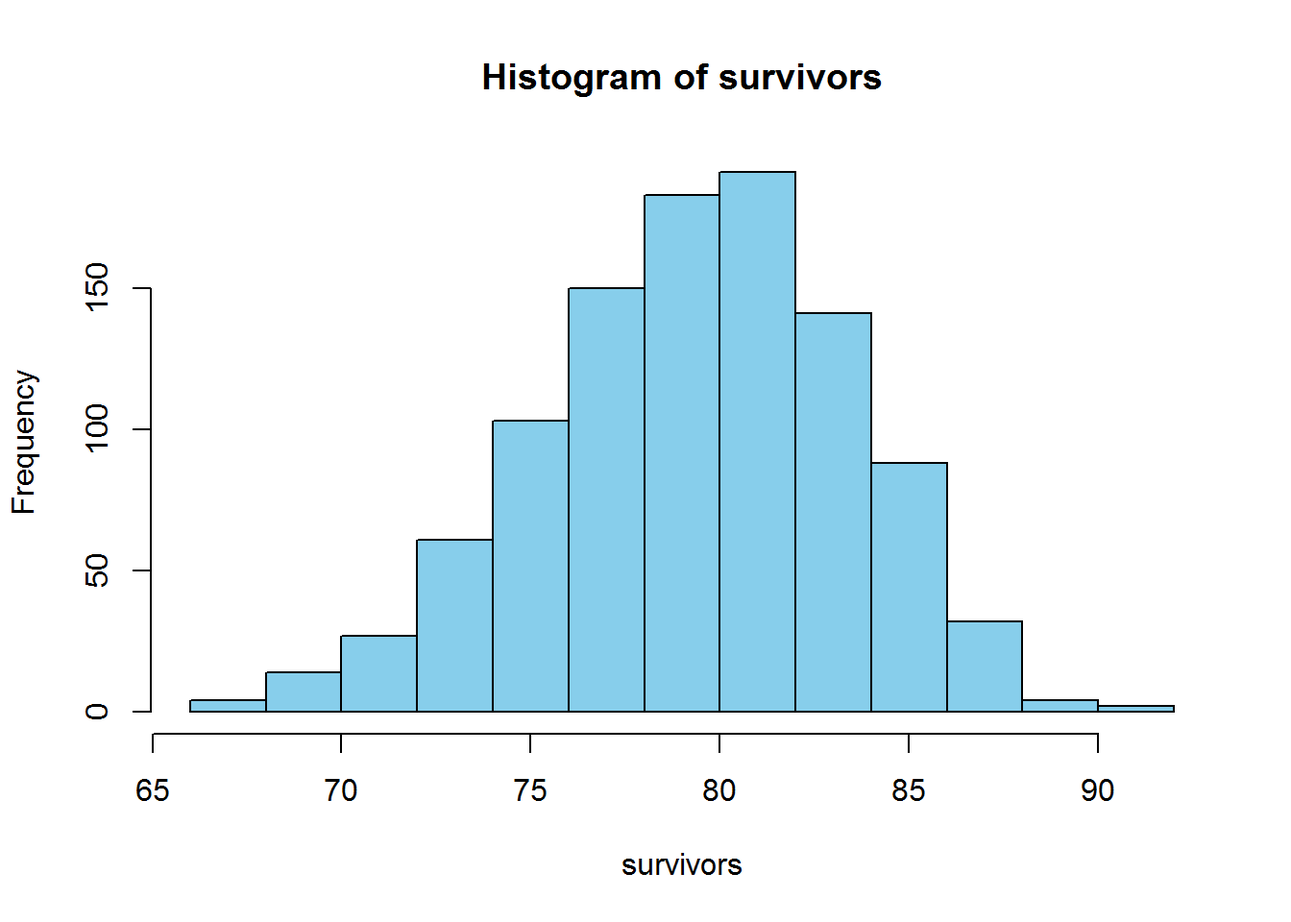
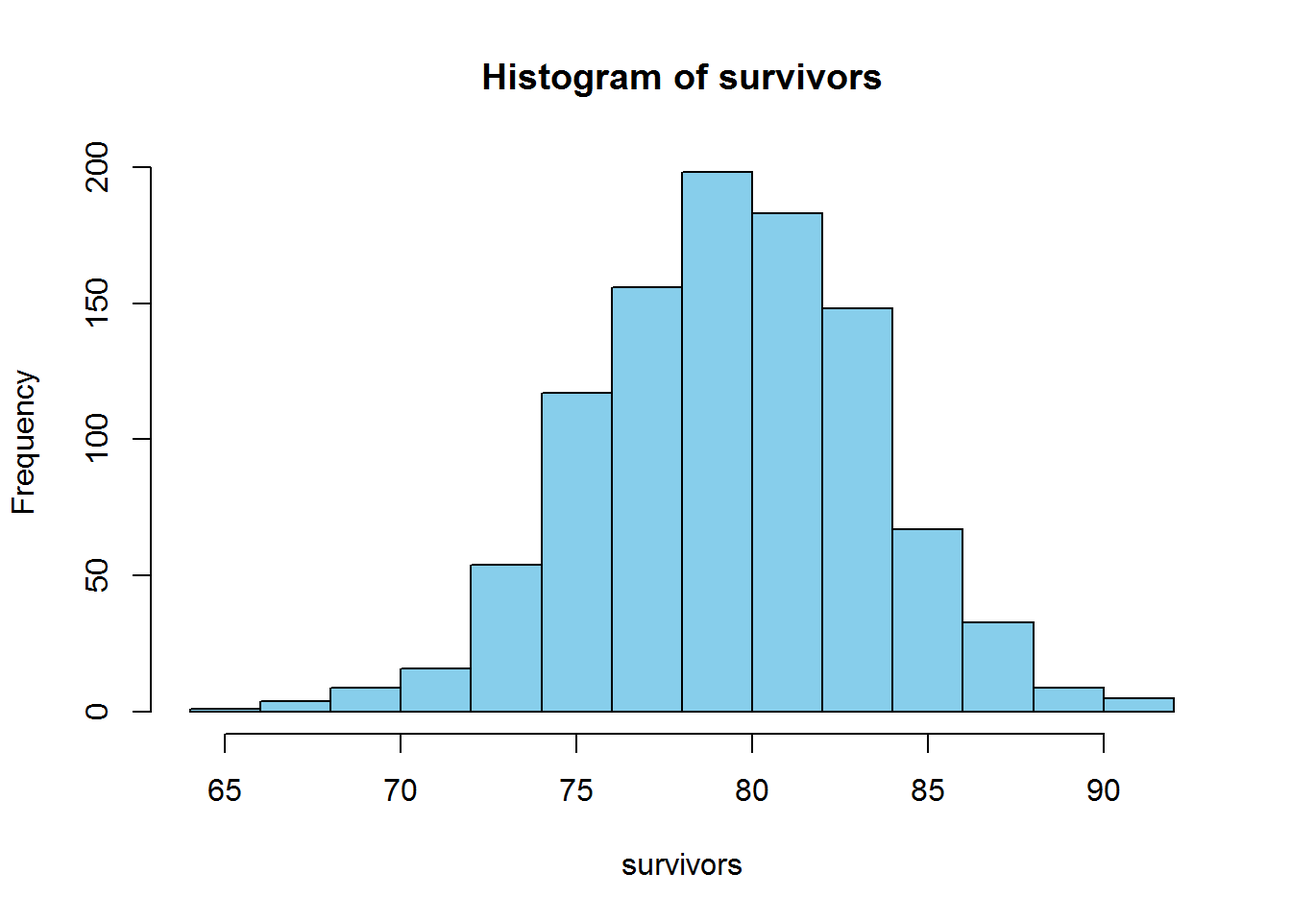
edit ch4

diff --git a/docs/ch4.html b/docs/ch4.html
@@ -312,7 +312,7 @@ code > span.in { color: #60a0b0; font-weight: bold; font-style: italic; } /* Inf
 <p>In Section <a href="ch3.html#dists">3.3</a>, you learned about using probability distributions in R. One of the uses was the <code>r-</code> family of distribution functions. These functions create random numbers following a random process specified by a probability distribution.</p>
 <p>Consider animal survival as an example. At the end of each year, each individual alive at the start can either live or die. There are two outcomes here, and suppose each animal has an 80% chance of surviving. The number of individuals that survive is the result of a <strong>binomial random process</strong> in which there were <span class="math inline">\(n\)</span> individuals alive at the start of this year and <span class="math inline">\(p\)</span> is the probability that any one individual survives to the next year. You can execute one binomial random process where <span class="math inline">\(p = 0.8\)</span> and <span class="math inline">\(n = 100\)</span> like this:</p>
 <div class="sourceCode"><pre class="sourceCode r"><code class="sourceCode r"><span class="kw">rbinom</span>(<span class="dt">n =</span> <span class="dv">1</span>, <span class="dt">size =</span> <span class="dv">100</span>, <span class="dt">prob =</span> <span class="fl">0.8</span>)</code></pre></div>
-<pre><code>## [1] 77</code></pre>
+<pre><code>## [1] 78</code></pre>
 <p>The result you get will almost certainly be different from the one printed here. That is the random component.</p>
 <p>You can execute many such binomial processes by changing the <code>n</code> argument. Plot the distribution of expected surviving individuals:</p>
 <div class="sourceCode"><pre class="sourceCode r"><code class="sourceCode r">survivors =<span class="st"> </span><span class="kw">rbinom</span>(<span class="dv">1000</span>, <span class="dv">100</span>, <span class="fl">0.8</span>)
@@ -327,14 +327,14 @@ code > span.in { color: #60a0b0; font-weight: bold; font-style: italic; } /* Inf
 <h3><span class="header-section-number">4.2.2</span> Resampling</h3>
 <p>Using random deviates works great for creating new random numbers, but what if you already have a set of numbers that you wish to introduce randomness to? For this, you can use <strong>resampling techniques</strong>. In R, the <code>sample</code> function is used to sample <code>size</code> elements from the vector <code>x</code>:</p>
 <div class="sourceCode"><pre class="sourceCode r"><code class="sourceCode r"><span class="kw">sample</span>(<span class="dt">x =</span> <span class="dv">1</span><span class="op">:</span><span class="dv">10</span>, <span class="dt">size =</span> <span class="dv">5</span>)</code></pre></div>
-<pre><code>## [1] 1 2 4 8 3</code></pre>
+<pre><code>## [1]  7  4  6 10  5</code></pre>
 <p>You can sample with replacement (where it is possible to sample the same element two or more times):</p>
 <div class="sourceCode"><pre class="sourceCode r"><code class="sourceCode r"><span class="kw">sample</span>(<span class="dt">x =</span> <span class="kw">c</span>(<span class="st">&quot;a&quot;</span>, <span class="st">&quot;b&quot;</span>, <span class="st">&quot;c&quot;</span>), <span class="dt">size =</span> <span class="dv">10</span>, <span class="dt">replace =</span> T)</code></pre></div>
-<pre><code>##  [1] &quot;c&quot; &quot;b&quot; &quot;b&quot; &quot;a&quot; &quot;b&quot; &quot;b&quot; &quot;c&quot; &quot;b&quot; &quot;a&quot; &quot;a&quot;</code></pre>
+<pre><code>##  [1] &quot;c&quot; &quot;b&quot; &quot;b&quot; &quot;c&quot; &quot;b&quot; &quot;b&quot; &quot;b&quot; &quot;b&quot; &quot;c&quot; &quot;c&quot;</code></pre>
 <p>You can set probabilities on the sampling of different elements<a href="#fn1" class="footnoteRef" id="fnref1"><sup>1</sup></a>:</p>
 <div class="sourceCode"><pre class="sourceCode r"><code class="sourceCode r"><span class="kw">sample</span>(<span class="dt">x =</span> <span class="kw">c</span>(<span class="st">&quot;live&quot;</span>, <span class="st">&quot;die&quot;</span>), <span class="dt">size =</span> <span class="dv">10</span>, <span class="dt">replace =</span> T,
        <span class="dt">prob =</span> <span class="kw">c</span>(<span class="fl">0.8</span>, <span class="fl">0.2</span>))</code></pre></div>
-<pre><code>##  [1] &quot;live&quot; &quot;live&quot; &quot;live&quot; &quot;live&quot; &quot;live&quot; &quot;die&quot;  &quot;die&quot;  &quot;live&quot; &quot;live&quot; &quot;die&quot;</code></pre>
+<pre><code>##  [1] &quot;live&quot; &quot;die&quot;  &quot;live&quot; &quot;live&quot; &quot;die&quot;  &quot;die&quot;  &quot;live&quot; &quot;live&quot; &quot;live&quot; &quot;live&quot;</code></pre>
 <p>Notice that this is the same as the binomial random process above, but with only 10 trials and the printing of the outcomes rather than the number of successes.</p>
 </div>
 </div>
@@ -601,7 +601,7 @@ normal_p =<span class="st"> </span><span class="kw">pnorm</span>(q, mu, sig)
   pval <span class="op">&lt;</span><span class="st"> </span><span class="fl">0.05</span>
 }</code></pre></div>
 <p>Next, for steps 4 and 5, set up a <strong>nested <code>for</code> loop</strong>. This will have two loops: one that loops over sample sizes for step 5 and one that loops over replicates of each sample size (step 4):</p>
-<div class="sourceCode"><pre class="sourceCode r"><code class="sourceCode r">I =<span class="st"> </span><span class="dv">1000</span>  <span class="co"># the number of replicates at each sample size</span>
+<div class="sourceCode"><pre class="sourceCode r"><code class="sourceCode r">I =<span class="st"> </span><span class="dv">10</span>  <span class="co"># the number of replicates at each sample size</span>
 
 n_try =<span class="st"> </span><span class="kw">seq</span>(<span class="dv">10</span>, <span class="dv">50</span>, <span class="dv">10</span>)  <span class="co"># the test sample sizes</span>
 N =<span class="st"> </span><span class="kw">length</span>(n_try)      <span class="co"># count them</span>
@@ -619,7 +619,7 @@ out =<span class="st"> </span><span class="kw">matrix</span>(<span class="ot">NA
      <span class="dt">xlab =</span> <span class="st">&quot;Tagged Fish per Treatment&quot;</span>,
      <span class="dt">ylab =</span> <span class="st">&quot;Probability of Finding Effect (Power)&quot;</span>)</code></pre></div>
 <p><img src="au-r-workshop_files/figure-html/unnamed-chunk-34-1.png" width="672" style="display: block; margin: auto;" /></p>
-<p>Even if you tagged 100 fish total, you would have a 48% chance of saying the effect (which truely is there!) is present under the null hypothesis testing framework.</p>
+<p>Even if you tagged 100 fish total, you would have a 50% chance of saying the effect (which truely is there!) is present under the null hypothesis testing framework.</p>
 <p>Suppose you and your colleagues aren’t relying on p-values in this case, and are purely interested in how precisely the <strong>effect size</strong> would be estimated. Adapt your function to determine how frequently it is you would be able to estimate the true mortality probability of the new method within +/- 5% based on the point estimate only (the true estimate must be between 0.2 and 0.3 for a successful study). Change your function to calculate this additional metric and re-run the analysis:</p>
 <div class="sourceCode"><pre class="sourceCode r"><code class="sourceCode r">sim_fit =<span class="st"> </span><span class="cf">function</span>(n, <span class="dt">p_old =</span> <span class="fl">0.10</span>, <span class="dt">p_new =</span> <span class="fl">0.25</span>) {
   
@@ -658,7 +658,7 @@ out =<span class="st"> </span><span class="kw">matrix</span>(<span class="ot">NA
 }
 
 <span class="co"># run the analysis</span>
-I =<span class="st"> </span><span class="dv">1000</span>  <span class="co"># the number of replicates at each sample size</span>
+I =<span class="st"> </span><span class="dv">10</span>  <span class="co"># the number of replicates at each sample size</span>
 
 n_try =<span class="st"> </span><span class="kw">seq</span>(<span class="dv">10</span>, <span class="dv">50</span>, <span class="dv">10</span>)  <span class="co"># the test sample sizes</span>
 N =<span class="st"> </span><span class="kw">length</span>(n_try)      <span class="co"># count them</span>
@@ -683,13 +683,13 @@ out_prc =<span class="st"> </span><span class="kw">matrix</span>(<span class="ot
      <span class="dt">xlab =</span> <span class="st">&quot;Tagged Fish per Treatment&quot;</span>,
      <span class="dt">ylab =</span> <span class="st">&quot;Probability of A Precise Estimate&quot;</span>)</code></pre></div>
 <p><img src="au-r-workshop_files/figure-html/unnamed-chunk-35-1.png" width="672" style="display: block; margin: auto;" /></p>
-<p>It seems that even if you tagged 50 fish per treatment, you would have a 58% chance of estimating that the mortality rate is between 0.2 and 0.3 if it was truly 0.25.</p>
+<p>It seems that even if you tagged 50 fish per treatment, you would have a 60% chance of estimating that the mortality rate is between 0.2 and 0.3 if it was truly 0.25.</p>
 <p>You and your colleagues consider these results and determine that you will need to somehow aquire more funds to tag more fish in the small-scale study in order to a high level of confidence in the results.</p>
 </div>
 <div id="harv-ex" class="section level3">
 <h3><span class="header-section-number">4.7.3</span> Harvest Policy Analysis</h3>
 <p>In this example, you will simulate population dynamics under a more realistic model than in Sections <a href="ch4.html#for-loops">4.4.2</a> and <a href="ch4.html#adv-funcs">4.5</a> for the purposes of evaluating different harvest policies.</p>
-<p>Suppose you are a fisheries research biologist, and a large commercial fishery for pink salmon (<em>Oncorhynchus gorbuscha</em>) takes place in your district. For the past 10 years, it has been fished with an exploitation rate of 40% (40% of the fish that return each year have been harvested, exploitation rate is abbreviated by <span class="math inline">\(U\)</span>). The management plan is up for evaluation this year, and your supervisor has asked you to prepare an analysis that determines if more yields could be taken if a different exploitation rate were to be used in the future.</p>
+<p>Suppose you are a fisheries research biologist, and a commercial fishery for pink salmon (<em>Oncorhynchus gorbuscha</em>) takes place in your district. For the past 10 years, it has been fished with an exploitation rate of 40% (40% of the fish that return each year have been harvested, exploitation rate is abbreviated by <span class="math inline">\(U\)</span>), resulting in an average annual harvest of 8.5 million fish. The management plan is up for evaluation this year, and your supervisor has asked you to prepare an analysis that determines if more yields could be taken if a different exploitation rate were to be used in the future.</p>
 <p>Based on historical data, your best understanding implies that the stock is driven by Ricker spawner-recruit dynamics. That is, the total number of fish that return this year (recruits) are a function of the total number of spawners that spawned the recruits this year. The functional form of the Ricker relationship can be written this way:</p>
 <p><span class="math display">\[R_t = \alpha S_{t-1} e^{-\beta S_{t-1} + \varepsilon_t} ,\varepsilon_t \sim N(0,\sigma)\]</span></p>
 <p>where <span class="math inline">\(\alpha\)</span> is a parameter representing the maximum recruits per spawner (obtained at very low spawner abundances) and <span class="math inline">\(\beta\)</span> is a measure of the strength of <strong>density-dependent mortality</strong>. Notice that the error term is in the exponent, which makes <span class="math inline">\(e^{\varepsilon_t}\)</span> lognormal.</p>
@@ -699,6 +699,115 @@ out_prc =<span class="st"> </span><span class="kw">matrix</span>(<span class="ot
 <li><span class="math inline">\(\beta = 1 \times 10^{-7}\)</span></li>
 <li><span class="math inline">\(\sigma = 0.4\)</span></li>
 </ul>
+<p>You decide that you can build a policy analysis by simulating the stock forward through time under different exploitation rates to determine if its reasonable to expect a different exploitation rate to provide more yields than what are currently being extracted.</p>
+<p>First, write a function for your population model. Your function must:</p>
+<ol style="list-style-type: decimal">
+<li>take the parameters, dimensions (number of years), and the policy variable (<span class="math inline">\(U\)</span>) as input arguments</li>
+<li>simulate the population using Ricker dynamics</li>
+<li>calculate and return the sum of the yields over the number future years you simulated.</li>
+</ol>
+<div class="sourceCode"><pre class="sourceCode r"><code class="sourceCode r"><span class="co"># Step #1: name function and give it some arguments</span>
+ricker_sim =<span class="st"> </span><span class="cf">function</span>(ny, params, U) {
+  
+  <span class="co"># extract the parameters out by name:</span>
+  alpha =<span class="st"> </span>params[<span class="st">&quot;alpha&quot;</span>]
+  beta =<span class="st"> </span>params[<span class="st">&quot;beta&quot;</span>]
+  sigma =<span class="st"> </span>params[<span class="st">&quot;sigma&quot;</span>]
+  
+  <span class="co"># create containers:</span>
+  <span class="co"># yep, you can do this</span>
+  R =<span class="st"> </span>S =<span class="st"> </span>H =<span class="st"> </span><span class="ot">NULL</span>
+  
+  <span class="co"># initialize the population in the first year</span>
+    <span class="co"># start the population at being fished at 40%</span>
+    <span class="co"># with lognormal error</span>
+  R[<span class="dv">1</span>] =<span class="st"> </span><span class="kw">log</span>(alpha <span class="op">*</span><span class="st"> </span>(<span class="dv">1</span> <span class="op">-</span><span class="st"> </span><span class="fl">0.4</span>))<span class="op">/</span>(beta <span class="op">*</span><span class="st"> </span>(<span class="dv">1</span> <span class="op">-</span><span class="st"> </span><span class="fl">0.4</span>)) <span class="op">*</span><span class="st"> </span><span class="kw">exp</span>(<span class="kw">rnorm</span>(<span class="dv">1</span>, <span class="dv">0</span>, sigma))
+  S[<span class="dv">1</span>] =<span class="st"> </span>R[<span class="dv">1</span>] <span class="op">*</span><span class="st"> </span>(<span class="dv">1</span> <span class="op">-</span><span class="st"> </span>U)
+  H[<span class="dv">1</span>] =<span class="st"> </span>R[<span class="dv">1</span>] <span class="op">*</span><span class="st"> </span>U
+  
+  <span class="co"># carry simulation forward through time</span>
+  <span class="cf">for</span> (y <span class="cf">in</span> <span class="dv">2</span><span class="op">:</span>ny) {
+    <span class="co"># use the ricker function with random lognormal white noise</span>
+    R[y] =<span class="st"> </span>S[y<span class="op">-</span><span class="dv">1</span>] <span class="op">*</span><span class="st"> </span>alpha <span class="op">*</span><span class="st"> </span><span class="kw">exp</span>(<span class="op">-</span>beta <span class="op">*</span><span class="st"> </span>S[y<span class="op">-</span><span class="dv">1</span>] <span class="op">+</span><span class="st"> </span><span class="kw">rnorm</span>(<span class="dv">1</span>, <span class="dv">0</span>, sigma))
+    <span class="co">#harvest and spawners are the same as before</span>
+    S[y] =<span class="st"> </span>R[y] <span class="op">*</span><span class="st"> </span>(<span class="dv">1</span> <span class="op">-</span><span class="st"> </span>U)
+    H[y] =<span class="st"> </span>R[y] <span class="op">*</span><span class="st"> </span>U
+  }
+  
+  <span class="kw">list</span>(
+    <span class="dt">mean_H =</span> <span class="kw">mean</span>(H),
+    <span class="dt">sd_H =</span> <span class="kw">sd</span>(H),
+    <span class="dt">cv_H =</span> <span class="kw">sd</span>(H)<span class="op">/</span><span class="kw">mean</span>(H),
+    <span class="dt">mean_S =</span> <span class="kw">mean</span>(S)
+    )
+}</code></pre></div>
+<p>Use the function once:</p>
+<div class="sourceCode"><pre class="sourceCode r"><code class="sourceCode r">params =<span class="st"> </span><span class="kw">c</span>(<span class="dt">alpha =</span> <span class="dv">6</span>, <span class="dt">beta =</span> <span class="fl">1e-7</span>, <span class="dt">sigma =</span> <span class="fl">0.4</span>)
+out =<span class="st"> </span><span class="kw">ricker_sim</span>(<span class="dt">U =</span> <span class="fl">0.4</span>, <span class="dt">ny =</span> <span class="dv">20</span>, <span class="dt">params =</span> params)
+
+<span class="co">#average annual harvest (in millions)</span>
+<span class="kw">round</span>(out<span class="op">$</span>mean<span class="op">/</span><span class="fl">1e6</span>, <span class="dt">digits =</span> <span class="dv">2</span>)</code></pre></div>
+<pre><code>## numeric(0)</code></pre>
+<p>If you completed the stochastic power analysis example (Section <a href="ch4.html#power-ex">4.7.2</a>), you might see where this is going. You are going to replicate applying a fixed policy many times to a random system. This is the Monte Carlo part of the analysis. The policy part is that you will compare several candidate exploitation rates. This time, set up your analysis using <code>sapply</code> and <code>replicate</code> instead of performing a nested <code>for</code> loop as in previous examples:</p>
+<div class="sourceCode"><pre class="sourceCode r"><code class="sourceCode r">U_try =<span class="st"> </span><span class="kw">seq</span>(<span class="fl">0.4</span>, <span class="fl">0.6</span>, <span class="fl">0.01</span>)
+n_rep =<span class="st"> </span><span class="dv">500</span>
+
+H_out =<span class="st"> </span><span class="kw">sapply</span>(U_try, <span class="cf">function</span>(u) {
+  <span class="kw">replicate</span>(<span class="dt">n =</span> n_rep, <span class="dt">expr =</span> {
+    <span class="kw">ricker_sim</span>(<span class="dt">U =</span> u, <span class="dt">ny =</span> <span class="dv">20</span>, <span class="dt">params =</span> params)<span class="op">$</span>mean_H<span class="op">/</span><span class="fl">1e6</span>
+  })
+})</code></pre></div>
+<p>The nested <code>replicate</code> and <code>sapply</code> are a bit cleaner than a nested <code>for</code> loop, but you have less control over the format of the output.</p>
+<p>Plot the output of your simulations using a boxplot. To make things easier, give <code>H_out</code> column names representing the exploitation rate:</p>
+<div class="sourceCode"><pre class="sourceCode r"><code class="sourceCode r"><span class="kw">colnames</span>(H_out) =<span class="st"> </span>U_try
+<span class="kw">boxplot</span>(H_out, <span class="dt">outline =</span> F,
+        <span class="dt">xlab =</span> <span class="st">&quot;U&quot;</span>, <span class="dt">ylab =</span> <span class="st">&quot;Harvest (Millions of Fish)&quot;</span>,
+        <span class="dt">col =</span> <span class="st">&quot;tomato&quot;</span>, <span class="dt">las =</span> <span class="dv">1</span>, <span class="dt">ylim =</span> <span class="kw">c</span>(<span class="dv">0</span>, <span class="kw">max</span>(H_out)))</code></pre></div>
+<p><img src="au-r-workshop_files/figure-html/unnamed-chunk-39-1.png" width="672" style="display: block; margin: auto;" /></p>
+<p>It appears the stock could produce more harvest than its current 8.5 million fish per year if it was fished harder. However, your supervisors also do not want to see the escapement drop below three-quarters of what it has been in recent history (75% of approximately 13 million fish). They ask you to obtain the expected average annual escapement as well as harvest. You can simply re-run the code above, but extracting <code>$S_mean$ rather than $H_mean$. Call this output $S_out$ and plot it just like harvest (if your curious, this blue color is</code>col = “skyblue”`):</p>
+<div class="sourceCode"><pre class="sourceCode r"><code class="sourceCode r">S_out =<span class="st"> </span><span class="kw">sapply</span>(U_try, <span class="cf">function</span>(u) {
+  <span class="kw">replicate</span>(<span class="dt">n =</span> n_rep, <span class="dt">expr =</span> {
+    <span class="kw">ricker_sim</span>(<span class="dt">U =</span> u, <span class="dt">ny =</span> <span class="dv">20</span>, <span class="dt">params =</span> params)<span class="op">$</span>mean_S<span class="op">/</span><span class="fl">1e6</span>
+  })
+})
+
+<span class="kw">colnames</span>(S_out) =<span class="st"> </span>U_try
+<span class="kw">boxplot</span>(S_out, <span class="dt">outline =</span> F,
+        <span class="dt">xlab =</span> <span class="st">&quot;U&quot;</span>, <span class="dt">ylab =</span> <span class="st">&quot;Escapement (Millions of Fish)&quot;</span>,
+        <span class="dt">col =</span> <span class="st">&quot;skyblue&quot;</span>, <span class="dt">las =</span> <span class="dv">1</span>, <span class="dt">ylim =</span> <span class="kw">c</span>(<span class="dv">0</span>, <span class="kw">max</span>(H_out)))</code></pre></div>
+<p><img src="au-r-workshop_files/figure-html/unnamed-chunk-40-1.png" width="672" style="display: block; margin: auto;" /></p>
+<div class="sourceCode"><pre class="sourceCode r"><code class="sourceCode r"><span class="kw">mean</span>(H_out[,U_try <span class="op">==</span><span class="st"> </span><span class="fl">0.4</span>])</code></pre></div>
+<pre><code>## [1] 8.544733</code></pre>
+<p>After seeing this information, your supervisor realizes they are faced with a trade-off: the stock could produce more with high exploitation rates, but they are concerned about pushing the stock too low for sustainability reasons. They tell you to determine the probability the average escapement would not be pushed below 75% of 13 million at each exploitation rate, as well as the probability that the average annual harvests will be at least 20% greater than they are currently (approximately 8.5 million fish). Given your output, this is easy:</p>
+<div class="sourceCode"><pre class="sourceCode r"><code class="sourceCode r"><span class="co"># determine if each element meets escapement criterion</span>
+Smeet =<span class="st"> </span>S_out <span class="op">&gt;</span><span class="st"> </span>(<span class="fl">0.75</span> <span class="op">*</span><span class="st"> </span><span class="dv">13</span>)
+
+<span class="co"># determine if each element meets harvest criterion</span>
+Hmeet =<span class="st"> </span>H_out <span class="op">&gt;</span><span class="st"> </span>(<span class="fl">1.2</span> <span class="op">*</span><span class="st"> </span><span class="fl">8.5</span>)
+
+<span class="co"># calculate the probability of each occuring at a given exploitation rate:</span>
+p_Smeet =<span class="st"> </span><span class="kw">apply</span>(Smeet, <span class="dv">2</span>, mean)
+p_Hmeet =<span class="st"> </span><span class="kw">apply</span>(Hmeet, <span class="dv">2</span>, mean)</code></pre></div>
+<p>You plot this for your supervisor as follows:</p>
+<div class="sourceCode"><pre class="sourceCode r"><code class="sourceCode r"><span class="co"># the U levels to highlight on plot</span>
+plot_U =<span class="st"> </span><span class="kw">seq</span>(<span class="fl">0.4</span>, <span class="fl">0.6</span>, <span class="fl">0.05</span>)
+<span class="co"># create an empty plot</span>
+<span class="kw">plot</span>(p_Smeet <span class="op">~</span><span class="st"> </span>p_Hmeet, <span class="dt">type =</span> <span class="st">&quot;n&quot;</span>,
+     <span class="dt">xlab =</span> <span class="st">&quot;Probability of Meeting Harvest Criterion&quot;</span>,
+     <span class="dt">ylab =</span> <span class="st">&quot;Probability of Meeting Escapement Criterion&quot;</span>)
+<span class="co"># add gridlines</span>
+<span class="kw">abline</span>(<span class="dt">v =</span> <span class="kw">seq</span>(<span class="dv">0</span>, <span class="dv">1</span>, <span class="fl">0.1</span>), <span class="dt">col =</span> <span class="st">&quot;grey&quot;</span>)
+<span class="kw">abline</span>(<span class="dt">h =</span> <span class="kw">seq</span>(<span class="dv">0</span>, <span class="dv">1</span>, <span class="fl">0.1</span>), <span class="dt">col =</span> <span class="st">&quot;grey&quot;</span>)
+<span class="co">#draw on the tradeoff curve</span>
+<span class="kw">lines</span>(p_Smeet <span class="op">~</span><span class="st"> </span>p_Hmeet, <span class="dt">type =</span> <span class="st">&quot;l&quot;</span>, <span class="dt">lwd =</span> <span class="dv">2</span>)
+<span class="co"># add points and text for particular U policies</span>
+<span class="kw">points</span>(p_Smeet[U_try <span class="op">%in%</span><span class="st"> </span>plot_U] <span class="op">~</span><span class="st"> </span>p_Hmeet[U_try <span class="op">%in%</span><span class="st"> </span>plot_U],
+       <span class="dt">pch =</span> <span class="dv">16</span>, <span class="dt">cex =</span> <span class="fl">1.5</span>)
+<span class="kw">text</span>(p_Smeet[U_try <span class="op">%in%</span><span class="st"> </span>plot_U] <span class="op">~</span><span class="st"> </span>p_Hmeet[U_try <span class="op">%in%</span><span class="st"> </span>plot_U],
+     <span class="dt">labels =</span> U_try[U_try <span class="op">%in%</span><span class="st"> </span>plot_U], <span class="dt">pos =</span> <span class="kw">c</span>(<span class="dv">1</span>,<span class="dv">1</span>,<span class="dv">1</span>,<span class="dv">2</span>,<span class="dv">2</span>))</code></pre></div>
+<p><img src="au-r-workshop_files/figure-html/unnamed-chunk-42-1.png" width="672" style="display: block; margin: auto;" /></p>
+<p>Equipped with this analysis, your supervisor plans to go to the policy-makers with the recommendation of adjusting the exploitation rate policy to use <span class="math inline">\(U = 0.5\)</span>, because they think it balances the trade-off. Notice how if the status quo was maintained, your model suggests you would have complete certainty of staying where you are now: escapement will remain above 75% of its current level with a 100% chance, but you would have no chance of improving harvests to greater than 20% of their current level. Small increases in the exploitation rate (e.g., from 0.4 to 0.45) have a reasonably large gain in harvest performance, but hardly any losses for the escapement criterion. Your supervisor is willing to live with a 90% chance that the escapement will stay where they desire in order to gain a &gt;80% chance of obtaining the desired amount of increases in harvest.</p>
+<p>The real utility of using Monte Carlo methods in this example is the ability to calculate the probability of some event you are interested in. There are analytical (i.e., not simulation-based) solutions to predict the annual harvest and escapement from a fixed <span class="math inline">\(U\)</span> from a population with parameters <span class="math inline">\(\alpha\)</span> and <span class="math inline">\(\beta\)</span>, but by incorporating randomness, you were able to obtain the relative weights of outcomes other than the expectation under the deterministic Ricker model.</p>
 </div>
 <div id="mrc-ex" class="section level3">
 <h3><span class="header-section-number">4.7.4</span> Mark-Recapture Evaluation</h3>
